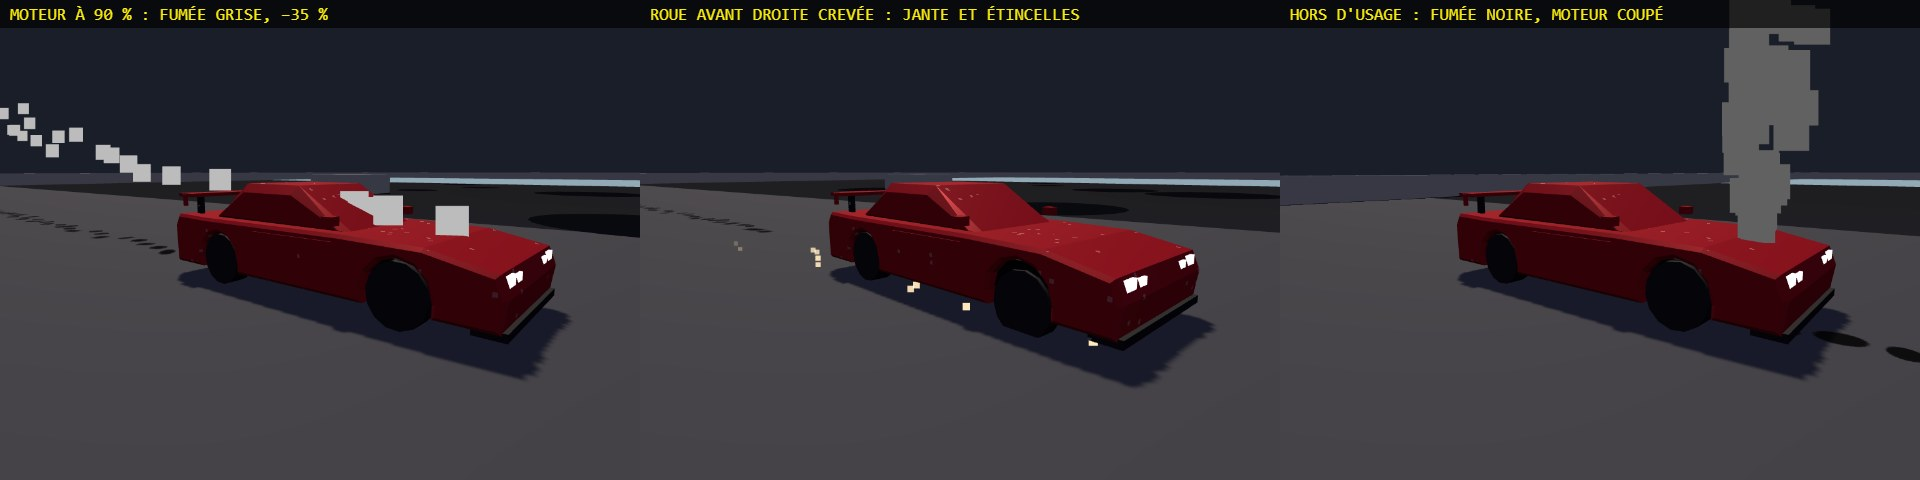
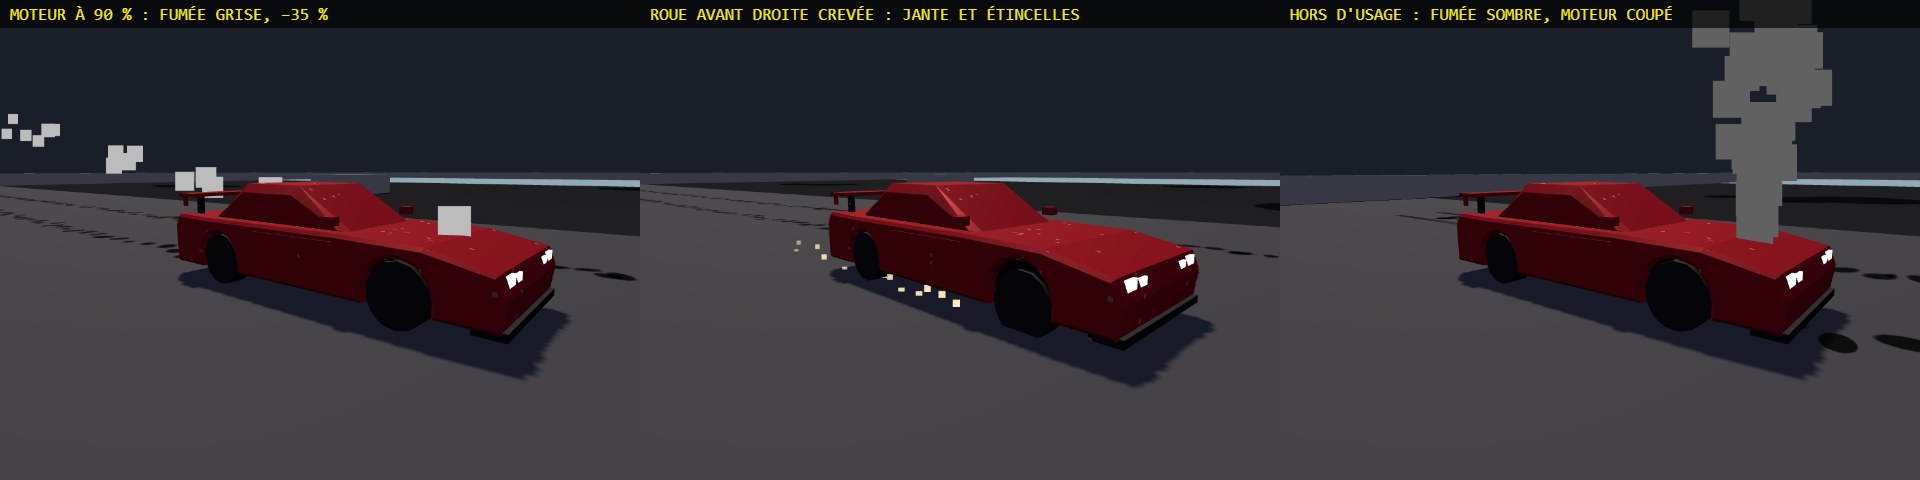
Casse : corrections de la revue (adhérence latérale du bac à sable, chocs.js reproductible, spec et README)
- propositions/casse.html : l'adhérence latérale (vt *= …) était passée dans un commentaire en 374e4d6, la voiture dérivait sans fin ; rétablie. Une pièce perdue n'ajoute plus que de l'accélération (poussée et traînée multipliées ensemble). Commentaires des pièces, de prof et des constantes de zones.
- outils/chocs.js : seuil des camions de la table SEUIL, tirage fixe remis à zéro à chaque course (deux passages donnent les mêmes chiffres), shortcut: sur la copie du modèle de choc.
- docs/SPEC-CASSE.md : mesures refaites (12 cartes, déviations avec l'adhérence), fenêtre entre deux chocs (0,4 s mur, 0,15 s voitures), profil bourrin sans aileron, phares avant seuls protégés, pare-brise déjà dans le jeu, « tour » de 90 s du bac à sable. Capture casse-mode refaite.
- README.md : outils/chocs.js et le bac à sable dans le tableau des fichiers.

diff --git a/propositions/casse.html b/propositions/casse.html
@@ -80,9 +80,10 @@ roughnessFactor = mix(roughnessFactor, 1.0, saleM);`)
 metalnessFactor *= 1.0 - saleM;`); };
 const salir = (a, c) => { if (a > 0) { const t = a / (SALE.n + a); SALE.c.lerp(new THREE.Color(c[0], c[1], c[2]), t); } SALE.n = Math.max(0, Math.min(1, SALE.n + a)); uSale.uSale.value = SALE.n; uSale.uSaleH.value = (VO ? VO.plan.bas : 0.2) ; }; // uSaleH : le bas de caisse, d'où la saleté part
 const car = new THREE.Group(), body = new THREE.Group(); car.add(body); scene.add(car);
-let VO, ZM, PIECES, NEZ, CUL, HX, HZ, XC, ROUES, PEND = null, CASSE = 0, OUV; const Z = [0, 0, 0, 0], DGM = 0.38, CAP = 0.7, TOUR = 0.4; let Z0 = [0, 0, 0, 0]; // Z0 : les zones au début du tour (hors CASSE, chacune prend au plus TOUR par tour)
+let VO, ZM, PIECES, NEZ, CUL, HX, HZ, XC, ROUES, PEND = null, CASSE = 0, OUV; const Z = [0, 0, 0, 0], DGM = 0.38, CAP = 0.7, TOUR = 0.4; // Z : usure [avant, arrière, gauche, droite] ; DGM : enfoncement maximal d'un sommet (m) ; CAP, TOUR : plafonds hors CASSE (total, par tour)
+ let Z0 = [0, 0, 0, 0]; // Z0 : les zones au début du tour (hors CASSE, chacune prend au plus TOUR par tour)
 const SEUIL = { mur: 6, camion: 6, voiture: 4 }, MULT = { mur: 1, camion: 1.5, voiture: 0.6 };
-// les pièces : nom, zone, pend à (null : tombe d'un coup), tombe à, charnière ; verre = éclats en plus
+// prof(x) : la hauteur du dessus de caisse en x (le profil du modèle)
 const prof = x => { const d = VO.plan.dessusCaisse; let y = 0; for (let i = 0; i < d.length - 1; i++) { const [x0, y0] = d[i], [x1, y1] = d[i + 1]; if (x0 !== x1 && (x - x0) * (x - x1) <= 0) y = Math.max(y, y0 + (y1 - y0) * (x - x0) / (x1 - x0)); } return y; };
 function monte(K) {
   if (PEND) { body.remove(PEND.piv); PEND = null; }
@@ -100,6 +101,7 @@ function monte(K) {
       for (let i = 0; i < P.length; i += 9) { a.fromArray(P, i); b.fromArray(P, i + 3); c.fromArray(P, i + 6); n.subVectors(c, b).cross(a.clone().sub(b)).normalize(); let ok = true; for (let k = 0; k < 9 && ok; k += 3) ok = test(P[i + k], P[i + k + 1], P[i + k + 2], n, i + k, zn); if (ok) tri.push(i); }
       if (tri.length) parts.push({ zn, tri }); }
     if (parts.length) PIECES.push({ nom, zi, parts, etat: 0, ...o }); };
+  // les pièces : nom, zone, puis { pend : seuil où elle pend (absent : tombe d'un coup), off : seuil où elle tombe, ch : charnière, verre : éclats (0 phare, 1 feu), s : côté }
   for (const s of [-1, 1]) {
     cherche('retro', s < 0 ? 2 : 3, [['caisse', (x, y, z, n, i) => uni(i) && z * s > p.wc / 2 && x > cab0 - 0.5 && x < cab0 + 0.3]], { off: 0.25, sg: [0, s], s });
     cherche('phare', 0, [['phare', (x, y, z) => z * s > 0]], { off: 0.25, sg: [1, s * 0.5], s, verre: 0 });
@@ -350,10 +352,11 @@ const K = (...c) => c.some(k => key[k]) ? 1 : 0;
 // mode CASSE : ce que les dégâts font à la conduite (hors CASSE, rien : tout reste visuel)
 //   moteur (usure avant) : −15 % de puissance à 0,6, −35 % et fumée à 0,85 ; direction : C.tire (rad de volant) ; roue crevée : −15 % d'adhérence et −10 % de vitesse maximale chacune, la voiture tire de son côté ;
 //   pare-chocs qui traîne : −1,5 % de vitesse maximale ; chaque pièce perdue : +1 % d'accélération (elle s'allège) ; hors d'usage : avant à 0,97 ou somme des zones à 3,4.
-function meca() { if (!CASSE) return { p: 1, vf: 1, grip: 1, tire: 0 };
+function meca() { if (!CASSE) return { p: 1, leger: 1, vf: 1, grip: 1, tire: 0 };
   const nc = C.creve.reduce((a, b) => a + b, 0), perdues = PIECES.filter(p => p.etat === 2).length, cote = (C.creve[1] + C.creve[3] - C.creve[0] - C.creve[2]) * 0.03;
   if (!C.mort && (Z[0] >= 0.97 || Z.reduce((a, b) => a + b, 0) >= 3.4)) C.mort = 1;
-  return { p: (Z[0] >= 0.85 ? 0.65 : Z[0] >= 0.6 ? 0.85 : 1) * (1 + perdues * 0.01) * (C.mort ? 0 : 1), vf: Math.pow(0.9, nc) * (PEND && PEND.p.nom === 'parechocs' ? 0.985 : 1), grip: Math.pow(0.85, nc), tire: C.tire + cote };
+  const leger = 1 + perdues * 0.01; // l'allègement multiplie la poussée et la traînée : plus d'accélération, même vitesse maximale
+  return { p: (Z[0] >= 0.85 ? 0.65 : Z[0] >= 0.6 ? 0.85 : 1) * leger * (C.mort ? 0 : 1), leger, vf: Math.pow(0.9, nc) * (PEND && PEND.p.nom === 'parechocs' ? 0.985 : 1), grip: Math.pow(0.85, nc), tire: C.tire + cote };
 }
 function pas(dt) {
   const MC = meca();
@@ -366,7 +369,8 @@ function pas(dt) {
     if (gaz) { vl += 15 * Math.min(1, g * 1.3) * MC.p * dt; C.lance = sp0 < 12 && gaz ? C.lance + dt : 0; patine = Math.max(0, 1 - sp0 / 12) * Math.min(1, C.lance * 3) * (C.lance < 1.4 ? 1 : 0); } else C.lance = 0;
     if (fr) { if (vl > 0.5) { vl = Math.max(0, vl - 20 * g * dt); bloque = vl > 3 ? 1 : 0; } else vl -= 8 * dt; } // sans ABS : les quatre roues bloquent
     if (fm) vl -= Math.sign(vl) * Math.min(Math.abs(vl), 5 * g * dt);
-    vl -= vl * 0.12 / MC.vf * dt; // (une vitesse maximale réduite = plus de traînée) vt *= Math.exp(-dt * 6 * g * (fm ? 0.1 : 1)); // l'adhérence latérale ramène la vitesse dans l'axe ; le frein à main la lâche à l'arrière
+    vl -= vl * 0.12 * MC.leger / MC.vf * dt; // (une vitesse maximale réduite = plus de traînée)
+    vt *= Math.exp(-dt * 6 * g * (fm ? 0.1 : 1)); // l'adhérence latérale ramène la vitesse dans l'axe ; le frein à main la lâche à l'arrière
     C.th += (C.st + MC.tire) * Math.min(1, Math.abs(vl) / 5) * Math.sign(vl) * 2.1 * (0.55 + 0.45 * g) * (fm ? 1.4 : 1) * dt;
   }
   C.vx = fx * vl + rx * vt; C.vz = fz * vl + rz * vt; C.x += C.vx * dt; C.z += C.vz * dt;

diff --git a/outils/chocs.js b/outils/chocs.js
@@ -3,10 +3,11 @@
 // On note chaque choc comme le jeu le voit (c.hit : mur ou camion, c.bump : voiture ; même lecture que dgPas dans game.js) et on rejoue dessus le modèle de dégâts
 // de docs/SPEC-CASSE.md (« Mécanique des chocs ») : usure par zone [avant, arrière, gauche, droite], plafonnée à CAP hors du mode CASSE.
 const THREE = require('../three/three.module.js'); require('../cartes.js'); require('../sim.js');
-const H = 1 / 120, CAP = 0.7, TOUR = 0.4, SEUIL = { mur: 6, voiture: 4 }, MULT = { mur: 1, voiture: 0.6, camion: 1.5 };
+const H = 1 / 120, CAP = 0.7, TOUR = 0.4, SEUIL = { mur: 6, camion: 6, voiture: 4 }, MULT = { mur: 1, voiture: 0.6, camion: 1.5 };
 const BACS = [4, 6, 10, 15, 20, 30, 1e9], bac = v => BACS.findIndex(b => v < b);
-function choc(Z, lx, lz, vn, type, Z0) { // Z0 : les zones au début du tour (chacune prend au plus TOUR par tour) // le modèle du bac à sable (propositions/casse.html, choc), sans la géométrie
-  const s = SEUIL[type === 'voiture' ? 'voiture' : 'mur']; if (vn <= s) return;
+// shortcut: copie du modèle du bac à sable (propositions/casse.html, choc) sans la géométrie ; au portage, une seule fonction dans sim.js pour les deux
+function choc(Z, lx, lz, vn, type, Z0) { // Z0 : les zones au début du tour (chacune prend au plus TOUR par tour)
+  const s = SEUIL[type]; if (vn <= s) return;
   const wx = lx * lx, wz = lz * lz, u = Math.min(1, ((vn - s) / 24) ** 2) * MULT[type] * (wx > 0.2 && wz > 0.2 ? 1.3 : 1);
   for (const [zi, w] of [[lx > 0 ? 0 : 1, wx], [lz < 0 ? 2 : 3, wz]]) Z[zi] = Math.min(CAP, Z0[zi] + TOUR, Z[zi] + Math.min(0.45, 0.6 * u * w) * (1 - Z[zi]));
 }
@@ -15,16 +16,17 @@ function suivi(c) { return { c, Z: [0, 0, 0, 0], Z0: [0, 0, 0, 0], lap: 1, n: Ar
 function note(o, t, truck) { // après un pas : un choc franc (même lecture que dgPas : direction = changement de vitesse, dans le repère de la voiture)
   const c = o.c; if ((c.lap || 1) !== o.lap) { o.lap = c.lap || 1; o.Z0 = o.Z.slice(); } const mur = c.hit || 0, vo = c.bump || 0; if (c.rub) o.frot += H;
   if (mur > 0) o.n[bac(mur)]++; if (vo > 0) o.nb[bac(vo)]++;
-  const f = Math.max(mur, vo); if (f > 3 && t - o.t >= 0.15) { o.t = t;
+  const f = Math.max(mur, vo); if (f > 3 && t - o.t >= 0.15) { o.t = t; // (comme dgPas ; contre un mur, sim.js ne signale déjà un choc frais que toutes les 0,4 s : wallT)
     let dx = o.vx - c.vx, dz = o.vz - c.vz, l = Math.hypot(dx, dz); if (l < 0.5) { dx = c.vx; dz = c.vz; l = Math.hypot(dx, dz) || 1; }
     const fx = Math.cos(c.th), fz = Math.sin(c.th); choc(o.Z, (dx * fx + dz * fz) / l, (dz * fx - dx * fz) / l, f, vo > mur ? 'voiture' : truck ? 'camion' : 'mur', o.Z0); }
   o.vx = c.vx; o.vz = c.vz;
 }
 // profils du joueur : propre = pilote automatique ; moyen = un peu trop vite, volant un peu imprécis ; bourrin = toujours à fond, jamais de frein (il tape)
-let bruit = 0;
+// le volant du « moyen » dévie au hasard, mais d'un tirage fixe remis à zéro à chaque course : deux passages donnent les mêmes chiffres
+let bruit = 0, graine = 1; const alea = () => (graine = (graine * 16807) % 2147483647) / 2147483647, raz = () => { bruit = 0; graine = 1; };
 const PROFILS = {
   propre: (c, T, o) => autopilot(c, T, 1, o),
-  moyen: (c, T, o) => { const a = autopilot(c, T, 1.06, o); bruit += (Math.random() - 0.5) * 0.12 - bruit * 0.01; return { ...a, steer: Math.max(-1, Math.min(1, a.steer + bruit)) }; },
+  moyen: (c, T, o) => { const a = autopilot(c, T, 1.06, o); bruit += (alea() - 0.5) * 0.12 - bruit * 0.01; return { ...a, steer: Math.max(-1, Math.min(1, a.steer + bruit)) }; },
   bourrin: (c, T, o) => ({ ...autopilot(c, T, 1.05, o), gas: 1, brake: 0 })
 };
 const fmt = o => `${o.n.slice(1).join(' ').padEnd(16)} | ${o.nb.slice(1).join(' ').padEnd(14)} | ${[...o.tour, o.Z].map(z => Math.round(Math.max(...z) * 100)).join(' → ').padEnd(12)} | ${o.Z.map(z => Math.round(z * 100)).join('/').padEnd(12)} ${etape(Math.max(...o.Z))}`;
@@ -33,14 +35,14 @@ const seule = process.argv[2], tous = {};
 for (const M of CARTES) { if (seule && M.id !== seule) continue;
   const T = buildTrack(THREE, M); console.log('== ' + M.id);
   for (const p in PROFILS) {
-    const R = newRace(T, 3), S = R.cars.map(suivi), piste = R.cars; let t = 0;
+    raz(); const R = newRace(T, 3), S = R.cars.map(suivi), piste = R.cars; let t = 0;
     while (!R.cars[0].fin && t < 600) { const inp = PROFILS[p](R.cars[0], T, piste); stepRace(R, inp, H); t += H; S.forEach(o => note(o, t)); S.forEach(o => { while (o.tour.length < Math.min(2, (o.c.lap || 1) - 1)) o.tour.push(o.Z.slice()); }); }
     console.log(`  ${p.padEnd(8)} ${fmt(S[0])}  (${Math.round(t)} s, frotte ${S[0].frot.toFixed(1)} s)`);
     (tous[p] = tous[p] || []).push(Math.max(...S[0].Z));
     if (p === 'propre') S.slice(1).forEach((o, i) => { console.log(`  IA ${i + 1}     ${fmt(o)}`); (tous.IA = tous.IA || []).push(Math.max(...o.Z)); });
   }
   if (M.trafic) for (const p of ['propre', 'bourrin']) { // contre-la-montre avec les camions
-    const c = newCar(T), o = suivi(c); let t = 0;
+    raz(); const c = newCar(T), o = suivi(c); let t = 0;
     while ((c.lap || 0) < 3 && t < 600) { step(c, PROFILS[p](c, T, trafic(T, t)), T, H); hitTrafic(c, T, t, H); t += H; note(o, t, 1); while (o.tour.length < Math.min(2, (c.lap || 1) - 1)) o.tour.push(o.Z.slice()); }
     console.log(`  CLM ${p.padEnd(7)}${fmt(o)}  (camions)`);
   }

diff --git a/docs/SPEC-CASSE.md b/docs/SPEC-CASSE.md
@@ -35,7 +35,7 @@ Débat entre trois game designers (lisibilité arcade, simulation façon Wreckfe
   - endroit : coin × 1,3, face ou flanc × 1.
 - Le choc se répartit entre la face (avant ou arrière) et le flanc selon le carré de chaque composante de sa direction.
 - Rendement décroissant : `zone += min(0,45, 0,6·u·poids) × (1 − zone)`.
-- Un contact frais compte au plus une fois toutes les 0,4 s (comme `wallT`).
+- Un contact frais compte au plus une fois toutes les 0,4 s contre un mur (`wallT` de sim.js), et toutes les 0,15 s entre voitures (`dgPas` de game.js).
 
 **Plafond** : hors du mode CASSE, aucune zone ne dépasse **0,70**. On peut être très abîmé, jamais une épave. Et chaque zone prend au plus **+0,40 par tour** (indispensable, voir les mesures).
 
@@ -46,13 +46,13 @@ Débat entre trois game designers (lisibilité arcade, simulation façon Wreckfe
 | Pièce | Pend à | Tombe à | Comment elle pend |
 |---|---|---|---|
 | Rétro, du côté du choc | — | 0,25 | — |
-| Phare / feu, du côté du choc | — | 0,25 (éclats) | hors CASSE, un phare reste toujours allumé |
+| Phare / feu, du côté du choc | — | 0,25 (éclats) | hors CASSE, un phare avant reste toujours allumé (la nuit, il éclaire la route) ; les deux feux arrière peuvent casser |
 | Pare-chocs | 0,30 | 0,45 | tient d'un bout, l'autre traîne au sol (étincelles) |
 | Aileron | 0,35 | 0,55 | penche d'un côté |
 | Capot | 0,55 | 0,85 (CASSE seulement) | se soulève et bat ; on voit le compartiment moteur |
 | Portière | 0,60 | 0,85 (CASSE seulement) | s'ouvre et bat ; on voit l'ouverture sombre |
 
-Une seule pièce pend à la fois : la suivante fait tomber la précédente. Une pièce qui pend est dessinée à part, elle coûte 2 passes. Pare-brise étoilé : à partir de vn > 22.
+Une seule pièce pend à la fois : la suivante fait tomber la précédente. Une pièce qui pend est dessinée à part, elle coûte 2 passes. Pare-brise étoilé : à partir de vn > 22. Le jeu le fait déjà (`fissure` de game.js, au-dessus de 12 m/s) ; le seuil passera à 22 au portage. Le bac à sable n'a pas de livrée pour le peindre.
 
 **Profils, sur une course de 3 tours** (suites de chocs fixes dans le prototype, touches 1 à 4)
 
@@ -60,27 +60,27 @@ Une seule pièce pend à la fois : la suivante fait tomber la précédente. Une 
 |---|---|---|
 | Propre | 10 frottements, 2 touchettes, 4 portières d'IA | 1 / 1 / 2 / 4 : nickel |
 | Moyen | 15 frottements, 6 murs moyens, 1 gros choc, 8 contacts d'IA | 16 / 6 / 21 / 9 : quelques creux |
-| Bourrin | par tour : 4 murs ratés, 2 gros chocs, 1 camion, 2 tamponnages | 70 / 24 / 19 / 60 : pare-chocs avant parti, un phare cassé, capot soulevé, aileron qui penche, roule toujours |
+| Bourrin | par tour : 4 murs ratés, 2 gros chocs, 1 camion, 2 tamponnages | 70 / 24 / 19 / 60 : pare-chocs avant parti, un phare cassé, capot soulevé, roule toujours |
 | Épave (CASSE) | bourrin, plus 12 crashs | presque 100 partout : capot, portières, pare-chocs, optiques partis |
 
-**Mesuré en vraie course** (`node outils/chocs.js [carte]`) : 8 cartes, 3 tours, 3 IA, la vraie physique de sim.js. On note chaque choc comme le jeu le voit et on rejoue dessus le modèle ci-dessus, **avec le plafond par tour** (+0,40 au plus par zone et par tour, ajouté après la première mesure).
+**Mesuré en vraie course** (`node outils/chocs.js [carte]`) : 12 cartes, 3 tours, 3 IA, la vraie physique de sim.js. On note chaque choc comme le jeu le voit et on rejoue dessus le modèle ci-dessus, **avec le plafond par tour** (+0,40 au plus par zone et par tour, ajouté après la première mesure).
 
 Profils du joueur :
 - propre = le pilote automatique ;
 - moyen = 6 % trop vite et un volant imprécis ;
 - bourrin = toujours à fond, jamais de frein.
 
-| Profil | Zone la plus abîmée en fin de course (min / médiane / max sur les 8 cartes) | Fin du tour 1 |
+| Profil | Zone la plus abîmée en fin de course (min / médiane / max sur les 12 cartes) | Fin du tour 1 |
 |---|---|---|
-| Propre | 0 / 5 / 22 : nickel, un creux au pire (un gros contact au givre) | 0 à 22 |
-| IA (rivaux) | 0 / 0 / 13 : les rivaux restent propres | — |
-| Moyen | 4 / 22 / 32 : quelques creux, parfois un rétro ou une optique | 4 à 17 |
-| Bourrin | 26 / 70 / 70 : au plafond, mais roule | **40 au plus** (pare-chocs qui pend, une optique) |
+| Propre | 0 / 2 / 22 : nickel, un creux au pire (un gros contact au givre) | 0 à 22 |
+| IA (rivaux) | 0 / 0 / 22 : les rivaux restent propres, un creux au pire | — |
+| Moyen | 4 / 17 / 35 : quelques creux, parfois un rétro ou une optique | 0 à 21 |
+| Bourrin | 26 / 70 / 70 : au plafond, mais roule | 13 à **40 au plus** (pare-chocs qui pend, une optique) |
 
 - Sans plafond par tour, le bourrin atteignait 70 dès la fin du tour 1 (touge, stade). Le plafond par tour est donc indispensable.
 - Frottements : chaque course compte des dizaines de contacts entre 4 et 10 m/s. Leur effet est nul ou négligeable : à vn = 8, l'usure est de 0,007.
 - Gros chocs : le bourrin prend 3 à 10 chocs au-dessus de 20 m/s par course. Contre les camions de wangan en contre-la-montre, il en prend 10 au-dessus de 30 m/s, et le plafond par tour le retient à 40.
-- Limite : le pilote « moyen » est aléatoire, donc ses chiffres bougent d'un essai à l'autre. Aucun vrai joueur humain n'a encore été mesuré.
+- Le volant du pilote « moyen » dévie d'un tirage fixe, remis à zéro à chaque course : deux passages donnent les mêmes chiffres. Aucun vrai joueur humain n'a encore été mesuré.
 
 **Technique** (technical artist)
 - La déformation reste sur le CPU, au choc. Elle coûte environ 0,1 ms par voiture (1 200 à 2 600 sommets) ; le GPU n'apporterait rien.
@@ -107,6 +107,7 @@ Dans `propositions/casse.html` : une « rue » devant le départ. Capture dans `
 - **Vitrine** : au-dessus de 5 m/s, elle vole en éclats (une quarantaine de débris de verre).
 
 Limites du prototype :
+- En conduite libre, le bac à sable compte un « tour » toutes les 90 s pour appliquer le plafond par tour (les courses du jeu ont de vrais tours).
 - Les objets traversent la glissière et les blocs, et ils peuvent s'endormir en équilibre sur une arête.
 - Les débris de verre sont des Mesh séparés : dans le jeu, ils iront dans le maillage unique des débris posés.
 
@@ -136,10 +137,10 @@ Capture : `docs/avant-apres/casse/casse-bonus.jpg`.
 | Effet | Règle | Mesure dans le bac à sable (départ arrêté, 5 s pied au plancher) |
 |---|---|---|
 | Moteur qui faiblit | usure avant ≥ 0,6 : −15 % de puissance ; ≥ 0,85 : −35 % et fumée grise | intacte 201 km/h ; avant 70 % : 172 ; avant 90 % : 131 |
-| Direction qui tire | choc sur l'avant de côté au-dessus de 12 m/s : le volant dévie de 0,02 vers le côté touché, jusqu'à 0,08 | déviation de 0,04 sans corriger : 22° de cap en 5 s |
-| Pneu crevé | gros choc (> 15 m/s) sur un coin dont la face est déjà à 0,5 : la roue crève ; −15 % d'adhérence et −10 % de vitesse maximale par roue, la voiture tire de son côté, la caisse s'affaisse, la jante crache des étincelles | roue avant droite crevée : 15° de cap en 5 s sans corriger |
+| Direction qui tire | choc sur l'avant de côté au-dessus de 12 m/s : le volant dévie de 0,02 vers le côté touché, jusqu'à 0,08 | déviation de 0,04 sans corriger : 23° de cap en 5 s ; à 0,08 : 31° et le mur |
+| Pneu crevé | gros choc (> 15 m/s) sur un coin dont la face est déjà à 0,5 : la roue crève ; −15 % d'adhérence et −10 % de vitesse maximale par roue, la voiture tire de son côté, la caisse s'affaisse, la jante crache des étincelles | roue avant droite crevée : 16° de cap en 5 s sans corriger, 187 km/h au lieu de 201 |
 | Hors d'usage | usure avant ≥ 0,97 ou somme des zones ≥ 3,4 : moteur coupé, fumée noire, la voiture est éliminée | — |
-| En plus | pare-chocs qui traîne : −1,5 % de vitesse maximale ; chaque pièce perdue : +1 % d'accélération | — |
+| En plus | pare-chocs qui traîne : −1,5 % de vitesse maximale ; chaque pièce perdue : +1 % d'accélération, sans toucher la vitesse maximale | — |
 
 Dans le jeu, tout cela passe dans sim.js, pour rester déterministe en réseau.
 - Les zones d'usure, `tire`, `creve` et `mort` deviennent des champs de la voiture.

diff --git a/README.md b/README.md
@@ -260,7 +260,7 @@ Le pilotage (ZQSD, A/E) est lu en position physique des touches, donc WASD et Q/
 | `rythme.js` | **essai indépendant** : les aplats lumineux du décor battent avec la grosse caisse de la radio. Pour le retirer, supprimer sa ligne dans `index.html` ; pour comparer, ajouter `&rythme=0` à l'adresse. |
 | `traces-or.js` | trace de référence du fantôme or de chaque carte (produit par `outils/traces-or.js`) |
 | `test-cartes.js` | tests de toutes les cartes |
-| `propositions/` | la page de conception d'origine des cartes (historique) |
+| `propositions/` | pages de conception : celle d'origine des cartes (historique), et `casse.html`, le bac à sable des dégâts et du décor destructible (voir `docs/SPEC-CASSE.md`) |
 | `samples.js` | sons de batterie encodés en base64 (généré depuis `samples/`) |
 | `samples/` | sons de Roland TR-808 d'origine et leur note d'auteur |
 | `fonts/` | polices pixel |
@@ -268,6 +268,7 @@ Le pilotage (ZQSD, A/E) est lu en position physique des touches, donc WASD et Q/
 | `test.js` | tests de la physique |
 | `outils/perf.js` | banc de mesure : performances à une et à deux vues, mémoire sur un enchaînement de cartes (voir « Performances ») |
 | `outils/banc.js` | le banc en une commande : `node outils/banc.js [carte]`, SUCCÈS ou ÉCHEC par carte (voir « Performances ») |
+| `outils/chocs.js` | mesure des chocs en vraie course, sans écran : `node outils/chocs.js [carte]`, et rejeu du modèle de dégâts de `docs/SPEC-CASSE.md` par profil de pilote |
 
 `game.js` est un seul fichier découpé en sections repérées par `// ----------` : rendu et passe finale, outils des trois entités du décor (`tx`, `mat`, `geo`, `pose`), piste, ville, horizon, voiture et effets, état de jeu et commandes, interface, boucle.
 
